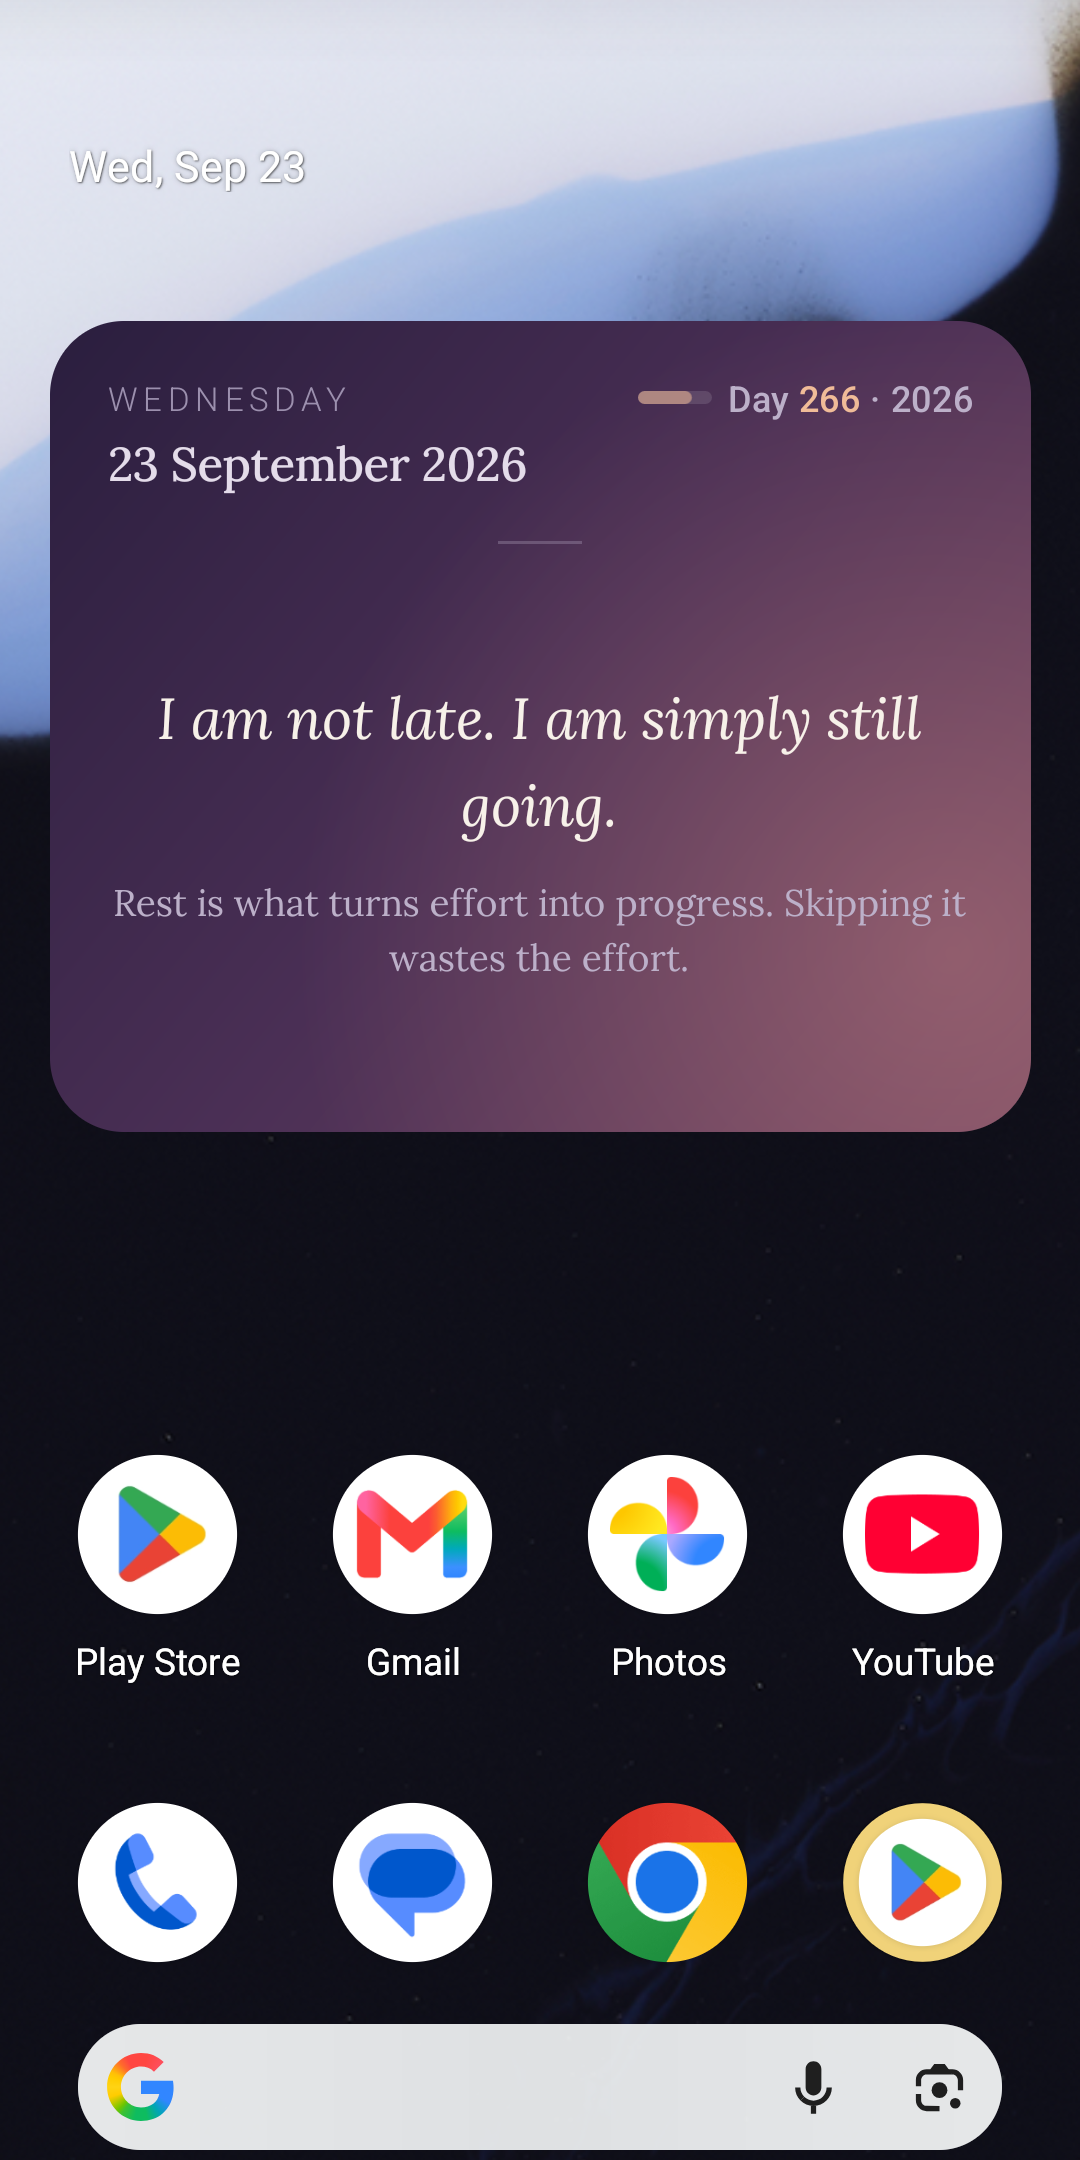
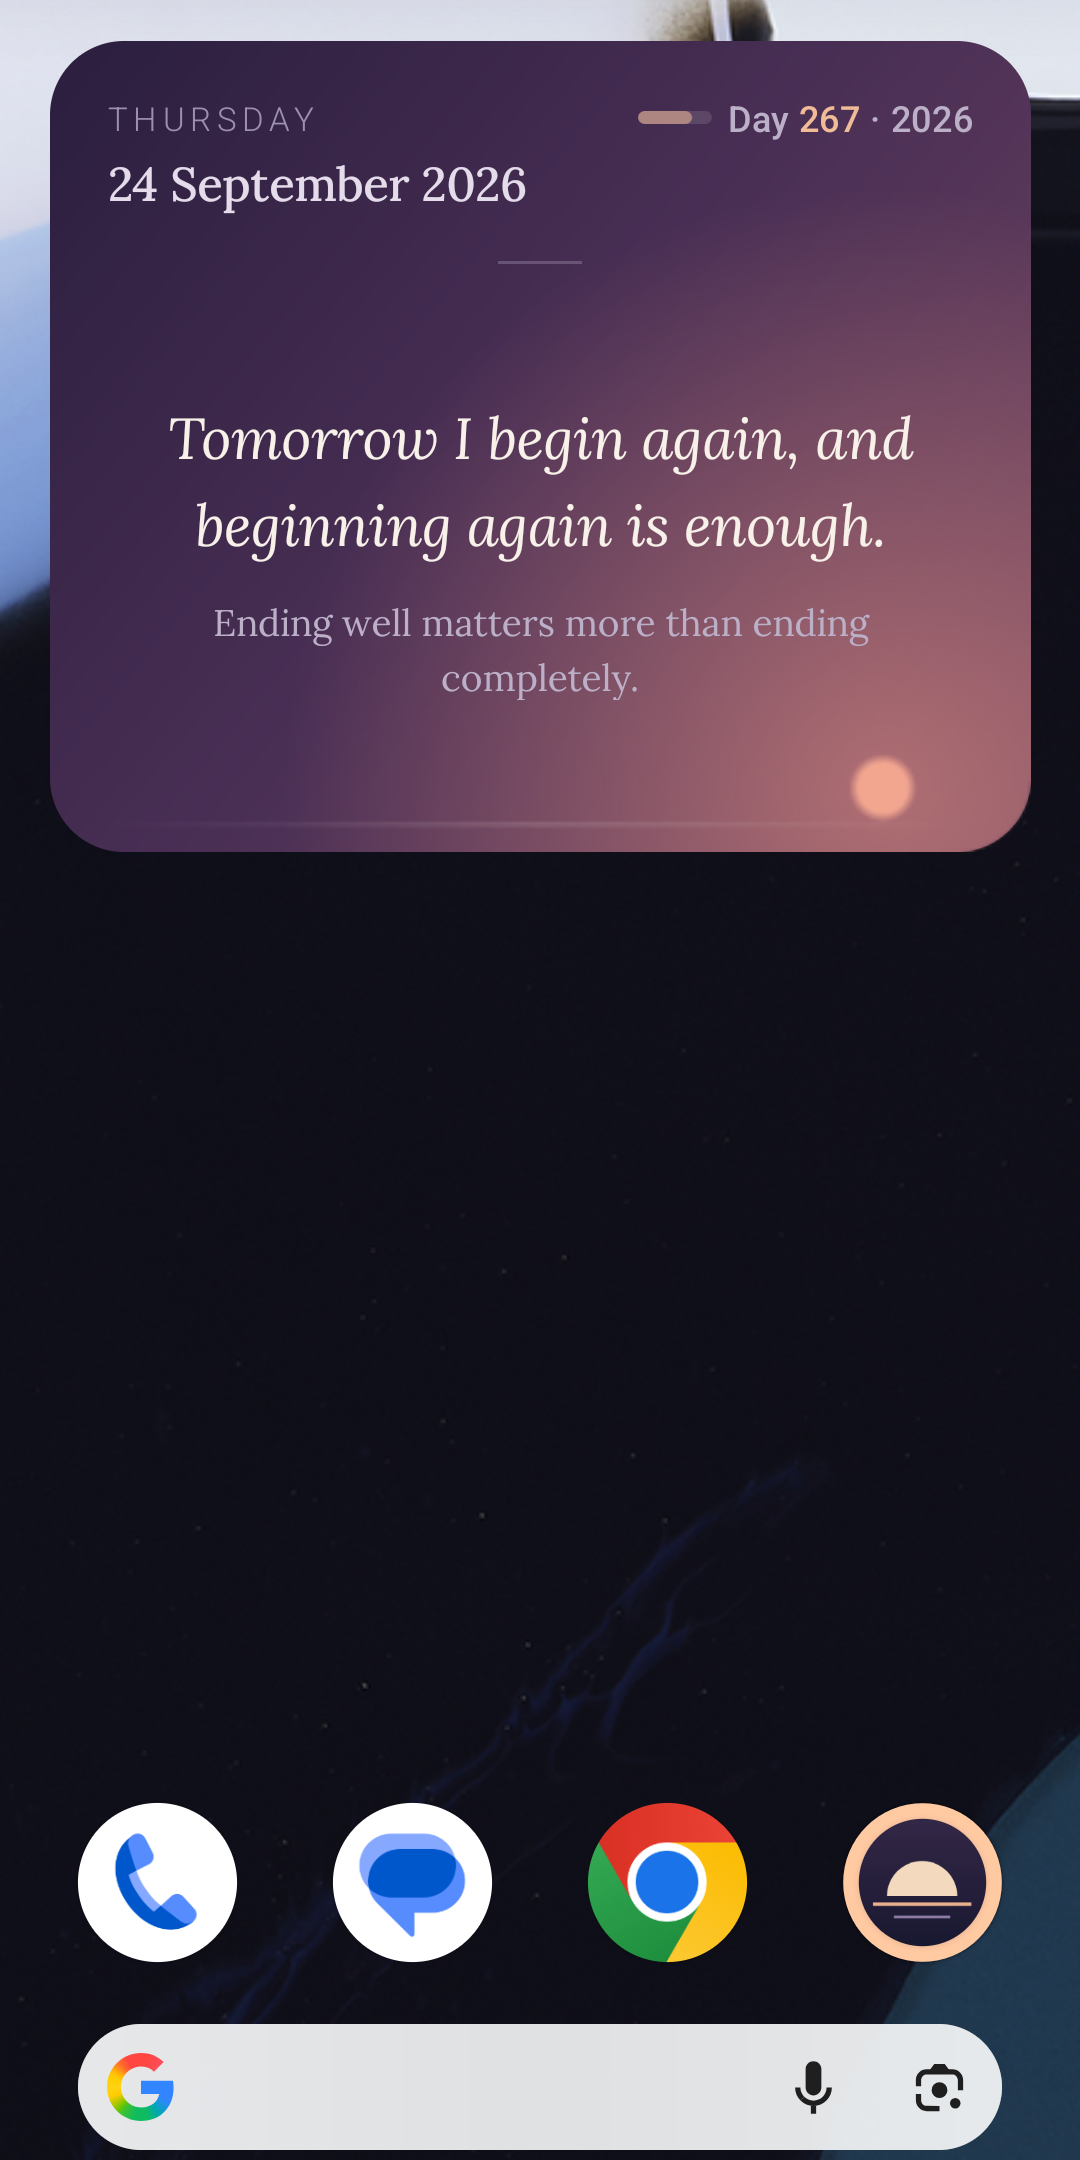
Keep the sun's disc clear of the words, and retake the Play screenshots
On a short card the morning sun climbed straight into the thought. The
disc now shows only where the card has room for it: within a couple of
sun-widths of the horizon — measured in distance, so a short card
doesn't lift it into the words — and in the top gap around midday, whole
rather than cut by the card's edge. In between, only its glow crosses.

The five phone screenshots are retaken on a Pixel 8 emulator at 1080x2160
to show the sky: sunrise, sunset with the closing voice, the light theme
at midday, night with bar-only, and the app screen's sunrise header.

Claude-Session: https://claude.ai/code/session_01P5QZCz2B9L3cNxbPAgAic4

diff --git a/app/src/main/java/com/shamala/dailylight/SkyPainter.kt b/app/src/main/java/com/shamala/dailylight/SkyPainter.kt
@@ -19,7 +19,8 @@ import kotlin.math.sin
 /**
  * The sky behind the words: a sun that rises bottom left at 06:00, crosses
  * the top of the card and sets bottom right at 19:00, then a small moon and a
- * few stars until morning.
+ * few stars until morning. The disc shows at sunrise, sunset and midday; the
+ * rest of the day its glow carries the light across, behind the words.
  *
  * The card's colour still comes from the phase backgrounds; this only adds
  * the light. It is painted at a third of the card's size and scaled up by the
@@ -118,16 +119,21 @@ object SkyPainter {
         val along = t.coerceIn(0f, 1f)
         // How high it is: 0 on the horizon, 1 overhead.
         val elevation = sin(PI * along).toFloat()
+        // Low sun is warm and bright; high sun is paler and quieter. Morning
+        // leans peach, evening leans rose.
+        val warm = 1f - elevation
+        val radius = dp(lerpF(11f, 13f, warm))
+
         val x = w * (0.14f + 0.72f * along)
+        // Overhead it sits in the gap between the weekday and the year line,
+        // whole, not cut off by the card's top edge.
+        val topY = max(h * 0.07f, radius + dp(6f))
         val y = if (t in 0f..1f) {
-            horizonY - elevation * (horizonY - h * 0.07f)
+            horizonY - elevation * (horizonY - topY)
         } else {
             horizonY + dp(10f) // just under the horizon at twilight
         }
 
-        // Low sun is warm and bright; high sun is paler and quieter. Morning
-        // leans peach, evening leans rose.
-        val warm = 1f - elevation
         val low = if (t < 0.5f) intArrayOf(240, 176, 141) else intArrayOf(240, 150, 130)
         val high = intArrayOf(250, 232, 196)
         val glow = IntArray(3) { lerp(high[it], low[it], warm) }
@@ -145,14 +151,22 @@ object SkyPainter {
 
         if (t !in 0f..1f) return
 
+        // The disc only where the card has room for it: within a sun's width
+        // of the horizon at sunrise and sunset — measured in distance, so a
+        // short card doesn't lift it into the words — and in the gap at the
+        // top around midday. In between, only the glow travels across.
+        val onHorizon = 1f - smoothstep(radius * 1.0f, radius * 2.4f, horizonY - y)
+        val overhead = smoothstep(0.94f, 0.985f, elevation)
+        val shown = max(onHorizon, overhead)
+        if (shown <= 0f) return
+
         // The disc itself, cut off at the horizon so it rises and sets.
-        val radius = dp(lerpF(11f, 15f, warm))
         val disc = if (isDark) {
             IntArray(3) { lerp(intArrayOf(252, 236, 205)[it], if (t < 0.5f) intArrayOf(247, 203, 166)[it] else intArrayOf(244, 164, 143)[it], warm) }
         } else {
             intArrayOf(250, 215, 170)
         }
-        val discAlpha = lerpF(0.8f, 1f, warm)
+        val discAlpha = lerpF(0.8f, 1f, warm) * shown
         canvas.save()
         canvas.clipRect(0f, 0f, w.toFloat(), horizonY)
         canvas.drawCircle(x, y, radius, Paint(Paint.ANTI_ALIAS_FLAG).apply {
@@ -200,6 +214,11 @@ object SkyPainter {
                 null, Shader.TileMode.CLAMP
             )
         })
+    }
+
+    private fun smoothstep(edge0: Float, edge1: Float, x: Float): Float {
+        val f = ((x - edge0) / (edge1 - edge0)).coerceIn(0f, 1f)
+        return f * f * (3f - 2f * f)
     }
 
     private fun lerp(a: Int, b: Int, f: Float): Int = (a + (b - a) * f).toInt()

diff --git a/context.md b/context.md
@@ -64,7 +64,10 @@ means redrawing every few seconds, which costs battery and which Android throttl
 genuine animation is the three-second sunrise or sunset on the app's own screen
 (`SkyHeaderView`), which stops when it's done. The sky is painted at a third of the card's
 size and stretched: soft light survives that, and it keeps the bitmap near 0.2 MB. Stars and
-the moon stay in the margins so none reads as punctuation in the words.
+the moon stay in the margins so none reads as punctuation in the words, and the sun's disc
+only shows where there's room for it — on the horizon for the first and last half hour of
+daylight, and in the gap at the top around midday. The rest of the day just its glow crosses
+the card, so nothing solid ever sits behind a line of text.
 
 **One tap to put it on the home screen.** Testers installed the app and never found the
 widget — older testers didn't know what a widget was. Until one is placed, the app offers a
@@ -104,6 +107,8 @@ app/src/main/java/com/shamala/dailylight/
 ├── Prefs.kt                settings, their own words, "shown more often" lines; SharedPreferences
 ├── DailyContent.kt         date, year progress, phase, voice, which words this moment gets
 ├── CardRenderer.kt         paints the Lora lines into bitmaps (see §5)
+├── SkyPainter.kt           the widget's sky: sun, glow, horizon, moon and stars, at 1/3 size
+├── SkyHeaderView.kt        the app screen's three-second sunrise or sunset
 ├── DailyWidgetProvider.kt  assembles the RemoteViews, schedules the daily refresh
 └── MainActivity.kt         settings screen and word editor
 ```

diff --git a/play/RELEASE.md b/play/RELEASE.md
@@ -59,17 +59,17 @@ jarsigner -verify -verbose -certs app/build/outputs/bundle/release/app-release.a
 ## 3. Screenshots
 
 Five are already in `play/graphics/screenshots/`, captured from a Pixel 8 emulator
-with the widget genuinely placed on the home screen, and cropped to 1080×2160 so
+(retaken 2026-09-24 for the sky) with the widget genuinely placed on the home screen, and cropped to 1080×2160 so
 they satisfy Play's rule that the long side is no more than twice the short side
 (a raw 1080×2400 Pixel screenshot fails it):
 
 | File | What it shows |
 |---|---|
-| `01-home-morning.png` | The widget on the home screen, dawn palette, morning voice |
-| `02-home-evening.png` | The closing voice and the dusk palette |
-| `03-home-light.png` | The light theme |
-| `04-home-bar-only.png` | The year line set to bar-only |
-| `05-settings.png` | The app's own screen with the live preview card |
+| `01-home-morning.png` | The widget at sunrise (06:12): the sun on the horizon bottom left, morning voice |
+| `02-home-evening.png` | Sunset (18:48): the sun sinking bottom right in rose, the closing voice |
+| `03-home-light.png` | The light theme at midday, the sun overhead |
+| `04-home-bar-only.png` | Night (22:15): moon and stars, the year line set to bar-only |
+| `05-settings.png` | The app's own screen: the sunrise header and the live preview card |
 
 Play takes at least 2 and at most 8, so upload all five in that order. Replace or
 add to them from your own phone if you would rather the wallpaper and the app dock
